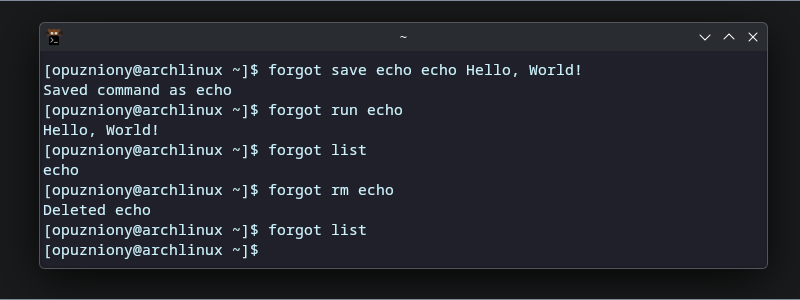
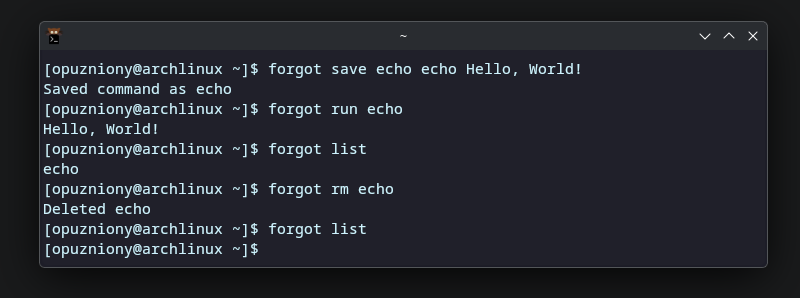
landing page rework

diff --git a/index.html b/index.html
@@ -29,35 +29,87 @@
                 <b>Patrick, in English.</b>
             </p>
         </div>
-        <h3>Programming student</h3>
-        <h2>Where do you want to go?</h2>  
-        <div class="card_container">
-            <a href='static/work.html' id="card1" class="card">
-                <p>
-                    <b>My work</b>
-                </p>
-            </a>
-            <a id="card2" class="card" href="mailto:patryk@opuzniony.com">
-                <div>
-                    <b>Email me</b>
-                    <p id="p4">patryk@opuzniony.com</p>
+        <h3>Programming student</h3> 
+
+        <div class="section" id="sct1">
+            <div class="section_header">
+                <h2>About</h2>
+            </div>
+            <p class="essay">
+                I'm a programming student natively
+                Polish, currently working through 
+                a track covering Python, C++, JavaScript, 
+                PHP, and web development, with some AI 
+                woven in. Before that, I had a few courses 
+                at Kodland, mainly Web Design, Unity 3D, the 
+                basic Python course, and then Python Pro.
+            </p>
+            <a href="static/about.html" class="section_button">More about me</a>
+        </div>
+        <div class="section" id="sct2">
+            <div class="section_header">
+                <h2>Featured project</h2>
+                <a href="https://github.com/opuzniony/forgot" class="section_button">Forgot</a>
+            </div>
+            <p class="essay">
+                A small 
+                <b style="
+                    background-color: rgb(255, 224, 82); 
+                    color: rgb(48, 105, 152);
+                    padding-inline: 0.6rem; 
+                    border-radius: 6px;">
+                    Python</b>
+                tool for saving and running commands that get lost easily.
+            </p>
+            <img class="section_img" src="/img/forgot.png" alt="forgot in terminal (save, run, list, rm)">
+            <div class="section_header">
+                <a href="static/work.html" class="section_button">See more of my work</a>
+                <a href="https://github.com/opuzniony" class="section_button">My GitHub</a>
+            </div>
+        </div>
+        <div class="section" id="sct3">
+            <div class="section_header">
+                <h2>Currently</h2>
+                <p>As of Aug 2026</p>
+            </div>
+            <p class="essay">
+                Learning how computers work from a 
+                NAND standpoint has become my main focus, 
+                currently I'm reading:
+            </p>
+            <p class="essay">
+                <b>CODE: The Hidden Language of Computer Hardware and Software</b>
+                <br>
+                By Charles Petzold
+            </p>
+            <div class="section_header">
+                <a href="static/work.html" class="section_button">See short/updated blog (Aug 25 2026)</a>
+            </div>
+        </div>
+        <div class="section" id="sct4">
+            <div class="section_header">
+                <h2>Contact</h2>
+            </div>
+           <div class="different">
+                <div class="different_header">
+                    <button mailto class="section_button">Email me</button>
+                    <p>patryk@opuzniony.com</p>
                 </div>
-            </a>
-            <a id="card3" class="card" href="https://github.com/opuzniony">
-                <p>
-                    <b>My GitHub</b>
-                </p>
-            </a>
-            <a id="card4" class="card" href="static/about.html">
-                <p>
-                    <b>About me</b>
-                </p>
-            </a>
-            <a href='static/blog.html' id="card5" class="card">
-                <p>
-                    <b>Currently</b>
-                </p>
-            </a>
+                <div class="different_header">
+                    <a href="https://github.com/opuzniony" class="section_button">My GitHub</a>
+                    <p>opuzniony</p>
+                </div>
+           </div>
+           <div class="different" id="different2">
+                <div class="different_header">
+                    <a href="https://github.com/opuzniony" class="section_button">My GitHub</a>
+                    <p>Placeholder button</p>
+                </div>
+                <div class="different_header">
+                    <a href="https://github.com/opuzniony" class="section_button">My GitHub</a>
+                    <p>Placeholder button</p>
+                </div>
+           </div>
         </div>
     </div>
     

diff --git a/style/firstpage.css b/style/firstpage.css
@@ -90,8 +90,6 @@ p {
     scale: 1.03;
 }
 
-
-
 h2, h3, h1 {
     max-width: 850px;
     margin: 0;
@@ -101,80 +99,14 @@ h1 {
     font-size: 4rem;
 }
 
-h2 {
-    font-size: 2.5rem;
-    margin: 0;
-}
-
 h3 {
     margin-bottom: 20px;
     font-size: 2rem;
 }
 
-.card_contaier button, mailto {
+button, mailto {
     font-family: 'Stack Sans Headline';
     color: black;
-}
-
-.card_container {
-    background-color: rgba(34, 40, 49, 0.6);;
-    padding: 1.5rem;
-    border-radius: 10px;
-    display: flex;
-    justify-content: center;
-    gap: 1.5rem;
-    width: 80%;
-    max-width: 1800px;
-    box-sizing: border-box;
-    flex-wrap: wrap;
-    }
-
-.card {
-    height: 35vh;
-    max-height: 400px;
-    width: 100vw;
-    max-width: 250px;
-    min-width: 180px;
-    border-radius: 10px;
-    background-color: rgb(240, 240, 245);
-    box-sizing: border-box;
-    display: flex;
-    align-items: center;
-    justify-content: center;
-    border: none;
-    font-size: 2rem;
-    transition: transform 0.2s, box-shadow 0.2s, background-color 0.2s;
-    padding: 0.75rem;
-}
-
-#card2 {
-    flex-direction: column;
-    margin: 0;
-}
-
-.card:hover {
-    transition-duration: 0.2s;
-    cursor: pointer;
-    background-color: rgb(0, 173, 181);
-    transform: scale(1.03);
-    box-shadow: 0 4px 12px rgba(0,0,0,0.15);
-}
-
-@media (max-width: 768px) {
-    .card {
-        height: auto;
-        padding: 2.5rem 1rem;
-        width: 80%;
-        max-width: 400px;
-        min-width: unset;
-        font-size: 1.5rem;
-    }
-
-    .card_container {
-        width: 95%;
-        gap: 1rem;
-        margin: 0.5rem;
-    }
 }
 
 a {
@@ -198,4 +130,95 @@ a {
 
 ::-webkit-scrollbar-thumb:hover {
   background: rgb(34, 40, 49);
+}
+
+.section {
+    display: flex;
+    justify-content: flex-start;
+    background-color: rgba(34, 40, 49, 0.6);
+    border-radius: 10px;
+    width: 96%;
+    margin: 1%;
+    padding: 1%;
+    height: fit-content;
+    align-items: inherit;
+    flex-direction: column;
+}
+
+.section_header {
+    border-radius: 10px;
+    display: flex;
+    align-items: center;
+    justify-content: center;
+    width: 100%;
+    box-sizing: border-box;
+    font-size: 2rem;
+    padding: 1rem;
+    gap: 2rem;
+    background-color: rgba(34, 40, 49, 0.6);
+}
+
+.section_header_footer {
+    margin-top: 2%;
+    font-size: 2.5rem;
+}
+
+.essay {
+    max-width: 900px;
+    margin-block: 1%;
+}
+
+.section_button {
+    background-color: rgb(240, 240, 245);
+    border-radius: 10px;
+    padding: 1rem;
+    font-size: 2rem;
+    transition: background-color 0.2s, scale 0.2s;
+    font-family: 'Stack Sans Headline';
+    padding-inline: 1%;
+}
+
+.section_button:hover {
+    background-color: rgb(0, 173, 181);
+    cursor: pointer;
+    scale: 1.03;
+}
+
+.section_img {
+    border-radius: 10px;
+    margin: 1rem;
+    max-width: 100%;
+    height: auto;
+}
+
+#sct4 {
+    gap: 1rem;
+}
+
+.different {
+    display: flex;
+    flex-direction: row;
+    gap: 1rem;
+    width: 100%;
+}
+
+.different_header {
+    border-radius: 10px;
+    display: flex;
+    align-items: center;
+    justify-content: center;
+    width: 100%;
+    box-sizing: border-box;
+    font-size: 2rem;
+    padding: 1rem;
+    gap: 2rem;
+    background-color: rgba(34, 40, 49, 0.6);
+}
+
+@media (max-width: 768px) {
+    
+}
+
+#different2 {
+    display: none;
 }

diff --git a/static/blog.html b/static/blog.html
@@ -25,7 +25,7 @@
             </div>
         </div>
         <h1>What am I doing now?</h1>
-        <p class="margined">Updated whenever something new happens, last updated Aug 12 2026</p>
+        <p class="margined">Updated whenever something new happens, last updated Aug 25 2026</p>
         <div class="section">
             <div class="section_header">
                 <h2>Currently reading</h2>
